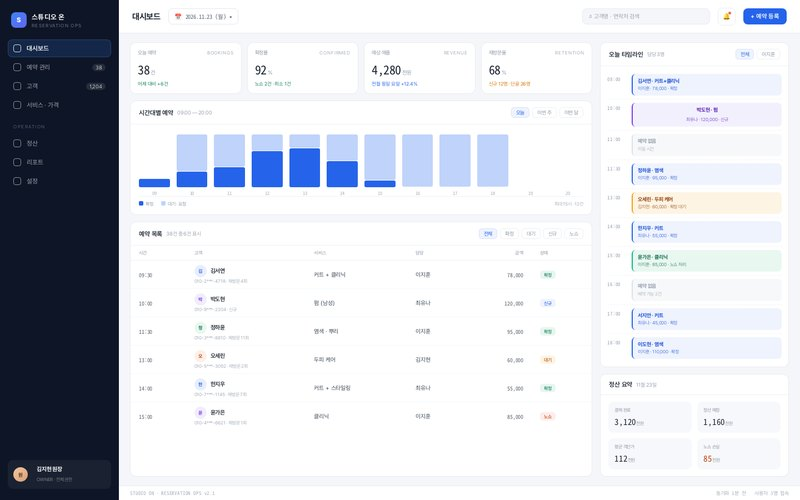
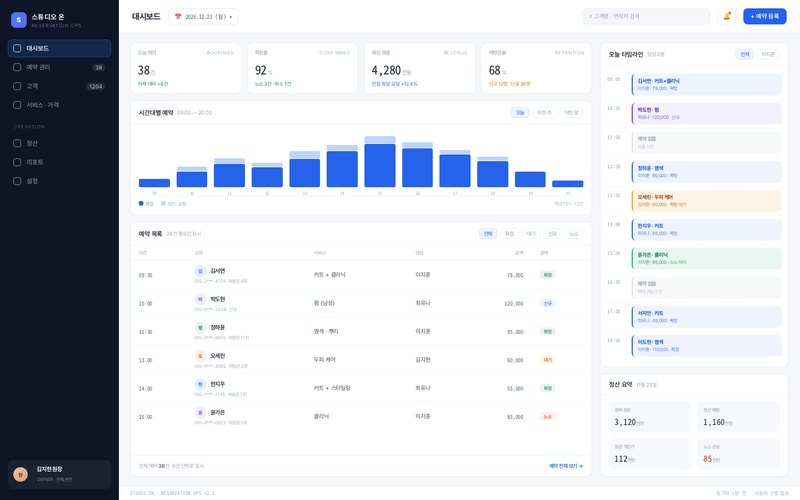
차트 렌더링·모바일 뷰 전환·예약 등록 인터랙션 수정

diff --git a/reservation/dash.html b/reservation/dash.html
@@ -68,12 +68,12 @@ body{font-family:'P',sans-serif;background:#EDEFF3;-webkit-font-smoothing:antial
 
 .chart{padding:12px 15px 6px;display:flex;flex-direction:column;flex:1}
 .bars{display:flex;align-items:flex-end;gap:12px;height:118px;padding-top:6px;border-bottom:1px solid #F0F2F6;overflow:hidden}
-.b{flex:1;display:flex;flex-direction:column;justify-content:flex-end;align-items:center;gap:4px;height:100%}
-.b .stack{width:100%;display:flex;flex-direction:column-reverse;justify-content:flex-start;gap:1px;flex:1;min-height:0}
-.b .seg{border-radius:3px}
-.b .seg.a{background:#2563EB}
-.b .seg.b{background:#BFD3FB}
-.b .lb{font-size:8.5px;color:#A5AEBA;font-family:'M'}
+.bars > .b{flex:1;display:flex;flex-direction:column;justify-content:flex-end;align-items:center;gap:4px;height:100%;min-width:0}
+.bars > .b > .stack{width:100%;display:flex;flex-direction:column-reverse;justify-content:flex-start;gap:1px;flex:1;min-height:0}
+.bars > .b .seg{border-radius:3px;flex:0 0 auto}
+.bars > .b .seg.a{background:#2563EB}
+.bars > .b .seg.b{background:#BFD3FB}
+.bars > .b .lb{font-size:8.5px;color:#A5AEBA;font-family:'M'}
 .legend{display:flex;gap:14px;font-size:8.5px;color:#8C97A5;padding:8px 0 4px}
 .legend i{display:inline-block;width:8px;height:8px;border-radius:2px;margin-right:4px}
 .legend i.a{background:#2563EB}.legend i.b{background:#BFD3FB}
@@ -83,6 +83,9 @@ thead th{font-size:8.5px;color:#98A1AE;font-weight:500;text-align:left;padding:8
 tbody td{font-size:10.5px;padding:8px 15px;border-bottom:1px solid #F5F7FA;color:#3A4756}
 tbody tr:last-child td{border-bottom:none}
 td.m{font-family:'M';font-size:10px;color:#5A6472}
+.tfoot{margin-top:auto;display:flex;align-items:center;justify-content:space-between;padding:13px 15px;border-top:1px solid #F2F4F8;font-size:9.5px;color:#98A1AE}
+.tfoot .more{color:#2563EB;font-weight:600;cursor:pointer}
+.tfoot .more:hover{text-decoration:underline}
 td .nm{font-weight:600;color:#1B2430}
 td .sub{display:block;font-size:8.5px;color:#A5AEBA;margin-top:2px}
 .tag{font-size:8.5px;padding:2.5px 7px;border-radius:5px;font-weight:500}
@@ -92,7 +95,10 @@ td .sub{display:block;font-size:8.5px;color:#A5AEBA;margin-top:2px}
 .tag.no{background:#FDEDE9;color:#C2410C}
 .av{width:22px;height:22px;border-radius:50%;display:inline-flex;align-items:center;justify-content:center;font-size:8.5px;font-weight:700;margin-right:7px;vertical-align:middle}
 
-.tl{padding:8px 12px 12px;overflow:auto;flex:1}
+.tl{padding:8px 12px 12px;overflow:auto;flex:1;scrollbar-width:thin;scrollbar-color:#D6DCE6 transparent}
+.tl::-webkit-scrollbar{width:5px}
+.tl::-webkit-scrollbar-thumb{background:#DDE2EA;border-radius:3px}
+.tl::-webkit-scrollbar-track{background:transparent}
 .slot{display:flex;gap:10px;padding:6px 0;border-bottom:1px dashed #F0F2F6}
 .slot:last-child{border-bottom:none}
 .slot .t{font-family:'M';font-size:9px;color:#98A1AE;width:34px;flex:none;padding-top:3px}
@@ -122,7 +128,7 @@ nav.nav a{cursor:pointer;transition:.14s}
 nav.nav a:hover{background:rgba(255,255,255,.06);color:rgba(255,255,255,.9)}
 tbody tr{transition:background .14s}
 tbody tr:hover td{background:#FAFBFD}
-.b .seg{transition:height .45s cubic-bezier(.2,.8,.2,1)}
+.bars > .b .seg{transition:height .45s cubic-bezier(.2,.8,.2,1)}
 tr.hide{display:none}
 .toast{position:fixed;left:50%;bottom:34px;transform:translateX(-50%) translateY(14px);background:#0E1526;color:#fff;font-family:'P',sans-serif;font-size:12px;letter-spacing:-.01em;padding:12px 18px;border-radius:11px;box-shadow:0 22px 44px -18px rgba(0,0,0,.6);opacity:0;pointer-events:none;transition:.28s;z-index:60}
 .toast.on{opacity:1;transform:translateX(-50%) translateY(0)}
@@ -212,6 +218,7 @@ tr.hide{display:none}
               <tr data-st="no" data-t="15:00"><td class="m">15:00</td><td><span class="av" style="background:#F1EDFD;color:#7C3AED">윤</span><span class="nm">윤가은</span><span class="sub">010-4***-6621 · 재방문 1회</span></td><td>클리닉</td><td>이지훈</td><td class="m" style="text-align:right">85,000</td><td><span class="tag no">노쇼</span></td></tr>
             </tbody>
           </table>
+          <div class="tfoot"><span>전체 예약 <b id="listTotal" style="color:#5A6472;font-weight:600">38</b>건 · 6건 단위로 표시</span><span class="more" id="moreBtn">예약 전체 보기 →</span></div>
         </div>
       </div>
 
@@ -311,7 +318,7 @@ tr.hide{display:none}
          '</div><div class="lb">'+d.labels[i]+'</div></div>';
     });
     barsEl.innerHTML=h;
-    var bs=barsEl.querySelectorAll('.b');
+    var bs=barsEl.children;
     requestAnimationFrame(function(){
       requestAnimationFrame(function(){
         Array.prototype.forEach.call(bs,function(b,i){
@@ -349,6 +356,7 @@ tr.hide{display:none}
       if(hit) shown++;
     });
     listCount.textContent=total+'건 중 '+shown+'건 표시';
+    var lt=document.getElementById('listTotal'); if(lt) lt.textContent=total;
   }
 
   Array.prototype.forEach.call(document.querySelectorAll('[data-p]'),function(el){
@@ -368,6 +376,7 @@ tr.hide{display:none}
   function openModal(){ mask.classList.add('on'); setTimeout(function(){var n=document.getElementById('fName'); if(n){n.focus();n.select();}},60); }
   function closeModal(){ mask.classList.remove('on'); }
   document.getElementById('addBtn').addEventListener('click',openModal);
+  document.getElementById('moreBtn').addEventListener('click',function(){ toast('샘플에는 예약 전체 목록 화면이 포함되어 있지 않습니다'); });
   document.getElementById('mClose').addEventListener('click',closeModal);
   document.getElementById('mCancel').addEventListener('click',closeModal);
   mask.addEventListener('click',function(e){ if(e.target===mask) closeModal(); });
